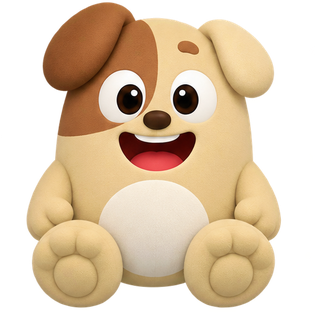
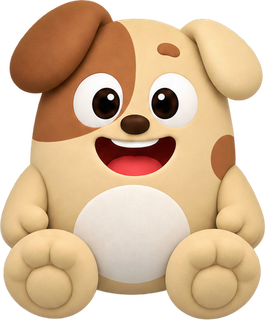
달리 그림 교체 · 인형 그림 주소에 판 번호
새로 받은 4포즈로 dolls/dali-*.png 를 갈아끼웠다. 같은 캐릭터를 다시
렌더한 것이라 별도 인형으로 두지 않고 교체한다.

파일명이 그대로라 폰이 캐시에 물고 있던 옛 그림을 계속 보여준다.
나머지 파일들과 같은 방식으로 그림 주소에도 판 번호(ART_V)를 붙였다 —
그림을 교체할 때마다 올리면 된다.

ART_V 는 DOLLS 리터럴보다 먼저 선언해야 한다(TDZ). 21마리 × 4포즈가
전부 열리는 것과, 관리자 '그림 바꿈' 비교가 그대로인 것을 확인했다.

diff --git a/index.html b/index.html
@@ -8,27 +8,27 @@
 <meta name="theme-color" content="#00A650">
 <title>올리캐쳐</title>
 <!-- 브라우저 탭·홈 화면 아이콘. 로고 한 장을 그대로 쓴다 (512px, 앱에서도 같은 파일). -->
-<link rel="icon" type="image/png" href="assets/logo.png?v=159">
-<link rel="apple-touch-icon" href="assets/logo.png?v=159">
+<link rel="icon" type="image/png" href="assets/logo.png?v=160">
+<link rel="apple-touch-icon" href="assets/logo.png?v=160">
 <meta name="description" content="뽑고 모으고, 친구에게 자랑하자! 올리캐쳐에서 올원 인형뽑기를 즐겨보세요.">
 <!-- 카카오톡·SNS 링크 미리보기(Open Graph) -->
 <meta property="og:type" content="website">
 <meta property="og:site_name" content="올리캐쳐">
 <meta property="og:title" content="올리캐쳐 · 올원 인형뽑기">
 <meta property="og:description" content="뽑고 모으고, 친구에게 자랑하자! 지금 인형을 뽑으러 가요.">
-<meta property="og:image" content="https://feelconomy.github.io/ally-catcher/assets/og-image.jpg?v=159">
+<meta property="og:image" content="https://feelconomy.github.io/ally-catcher/assets/og-image.jpg?v=160">
 <meta property="og:image:width" content="1200">
 <meta property="og:image:height" content="675">
 <meta property="og:url" content="https://feelconomy.github.io/ally-catcher/">
 <meta name="twitter:card" content="summary_large_image">
 <meta name="twitter:title" content="올리캐쳐 · 올원 인형뽑기">
 <meta name="twitter:description" content="뽑고 모으고, 친구에게 자랑하자!">
-<meta name="twitter:image" content="https://feelconomy.github.io/ally-catcher/assets/og-image.jpg?v=159">
+<meta name="twitter:image" content="https://feelconomy.github.io/ally-catcher/assets/og-image.jpg?v=160">
 <link rel="preconnect" href="https://cdn.jsdelivr.net" crossorigin>
 <link rel="stylesheet" href="https://cdn.jsdelivr.net/gh/orioncactus/pretendard@v1.3.9/dist/web/variable/pretendardvariable-dynamic-subset.min.css">
-<link rel="stylesheet" href="css/tokens.css?v=159">
-<link rel="stylesheet" href="css/app.css?v=159">
-<link rel="stylesheet" href="css/play3d.css?v=159">
+<link rel="stylesheet" href="css/tokens.css?v=160">
+<link rel="stylesheet" href="css/app.css?v=160">
+<link rel="stylesheet" href="css/play3d.css?v=160">
 <script type="importmap">
 {"imports":{"three":"./vendor/three.module.js"}}
 </script>
@@ -40,17 +40,17 @@
   <div id="overlays"></div>
 </div>
 
-<script src="config.js?v=159"></script>
-<script src="js/icons.js?v=159"></script>
-<script src="js/data.js?v=159"></script>
-<script src="js/store.js?v=159"></script>
-<script src="js/ui.js?v=159"></script>
-<script src="js/play.js?v=159"></script>
-<script src="js/play3d-loader.js?v=159"></script>
-<script src="js/overlays.js?v=159"></script>
-<script src="js/screens.js?v=159"></script>
-<script src="js/app.js?v=159"></script>
-<script src="js/sync.js?v=159"></script>
-<script type="module" src="js/auth.js?v=159"></script>
+<script src="config.js?v=160"></script>
+<script src="js/icons.js?v=160"></script>
+<script src="js/data.js?v=160"></script>
+<script src="js/store.js?v=160"></script>
+<script src="js/ui.js?v=160"></script>
+<script src="js/play.js?v=160"></script>
+<script src="js/play3d-loader.js?v=160"></script>
+<script src="js/overlays.js?v=160"></script>
+<script src="js/screens.js?v=160"></script>
+<script src="js/app.js?v=160"></script>
+<script src="js/sync.js?v=160"></script>
+<script type="module" src="js/auth.js?v=160"></script>
 </body>
 </html>

diff --git a/js/data.js b/js/data.js
@@ -2,6 +2,11 @@
    Claude Design spec's `renderVals()` block; grades and point values come from
    the doll-detail and exchange screens (SR 400P, 레어 +120P). */
 
+/* 인형 그림 주소에 붙이는 판 번호. 그림을 같은 파일명으로 갈아끼우면 폰이
+   캐시에 물고 있던 옛 그림을 계속 보여준다 — 나머지 파일들과 같은 방식으로
+   판 번호를 붙여 둔다. 그림을 교체할 때마다 올린다. */
+const ART_V = '?a=2';
+
 const DOLLS = {
   bear:    { id: 'bear',    name: '말랑 곰돌이', grade: 'R',  points: 120, bg: '#FFF3DC', rate: 2.4 },
   dog:     { id: 'dog',     name: '쫀득 푸딩독', grade: 'N',  points: 60,  bg: '#FFF8E3', rate: 18 },
@@ -15,19 +20,19 @@ const DOLLS = {
   olly: {
     id: 'olly', name: '말랑 올리', grade: 'SR', points: 400, bg: '#EAF7DE', rate: 1.8,
     art: {
-      idle:    'dolls/olly-idle.png',     // 기계 안에 놓여 있을 때
-      grabbed: 'dolls/olly-grabbed.png',  // 집게에 잡혔을 때
-      drop:    'dolls/olly-drop.png',     // 미끄러지거나 배출구로 떨어질 때
-      win:     'dolls/olly-win.png',      // 성공적으로 뽑았을 때
+      idle:    'dolls/olly-idle.png' + ART_V,     // 기계 안에 놓여 있을 때
+      grabbed: 'dolls/olly-grabbed.png' + ART_V,  // 집게에 잡혔을 때
+      drop:    'dolls/olly-drop.png' + ART_V,     // 미끄러지거나 배출구로 떨어질 때
+      win:     'dolls/olly-win.png' + ART_V,      // 성공적으로 뽑았을 때
     },
   },
   bunny: {
     id: 'bunny', name: '토끼모자 올리', grade: 'SR', points: 400, bg: '#F2F7E6', rate: 2.0,
     art: {
-      idle:    'dolls/bunny-idle.png',
-      grabbed: 'dolls/bunny-grabbed.png',
-      drop:    'dolls/bunny-drop.png',
-      win:     'dolls/bunny-win.png',
+      idle:    'dolls/bunny-idle.png' + ART_V,
+      grabbed: 'dolls/bunny-grabbed.png' + ART_V,
+      drop:    'dolls/bunny-drop.png' + ART_V,
+      win:     'dolls/bunny-win.png' + ART_V,
     },
   },
   ...poseDolls([
@@ -58,10 +63,10 @@ function poseDolls(list) {
   for (const d of list) {
     out[d.id] = Object.assign({}, d, {
       art: {
-        idle:    `dolls/${d.id}-idle.png`,
-        grabbed: `dolls/${d.id}-grabbed.png`,
-        drop:    `dolls/${d.id}-drop.png`,
-        win:     `dolls/${d.id}-win.png`,
+        idle:    `dolls/${d.id}-idle.png${ART_V}`,
+        grabbed: `dolls/${d.id}-grabbed.png${ART_V}`,
+        drop:    `dolls/${d.id}-drop.png${ART_V}`,
+        win:     `dolls/${d.id}-win.png${ART_V}`,
       },
     });
   }
@@ -105,7 +110,8 @@ const DOLL_BASE = JSON.parse(JSON.stringify(DOLLS));
 function baseArt(id) {
   const b = DOLL_BASE[id];
   if (b && b.art) return Object.assign({}, b.art);
-  return { idle: `dolls/${id}.svg`, grabbed: `dolls/${id}.svg`, drop: `dolls/${id}.svg`, win: `dolls/${id}.svg` };
+  const svg = `dolls/${id}.svg${ART_V}`;
+  return { idle: svg, grabbed: svg, drop: svg, win: svg };
 }
 
 // 프로필 대표 이미지로 쓸 수 없는 옛 인형들 (신규 올리 시리즈만 허용)

diff --git a/js/play3d.js b/js/play3d.js
@@ -1,7 +1,7 @@
 import * as THREE from 'three';
 import { GLTFLoader } from '../vendor/GLTFLoader.js';
 import { MeshoptDecoder } from '../vendor/meshopt_decoder.module.js';
-import { clawContacts } from './claw-contact.js?v=159';
+import { clawContacts } from './claw-contact.js?v=160';
 
 /* 배경 글TF는 EXT_meshopt_compression 으로 줄여 두었다(84MB -> 15MB).
    디코더를 물린 로더를 하나 써서 모든 에셋을 같은 경로로 읽는다. */

diff --git a/js/play3d-loader.js b/js/play3d-loader.js
@@ -13,7 +13,7 @@ async function startGreen3D(machine) {
   screenEl().innerHTML = green3DLoading();
   try {
     if (location.protocol === 'file:') throw new Error('LOCAL_SERVER_REQUIRED');
-    const { Play3D } = await import('./play3d.js?v=159');
+    const { Play3D } = await import('./play3d.js?v=160');
     if (request !== green3DRequest || App.route !== 'play') return;
     window.Play3D = Play3D;
     await Play3D.start(machine);
